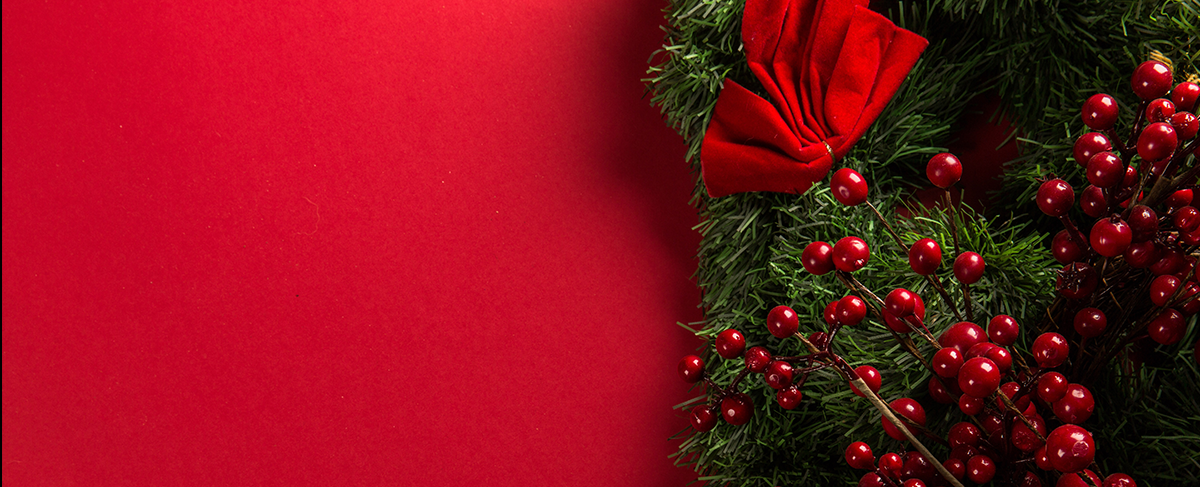
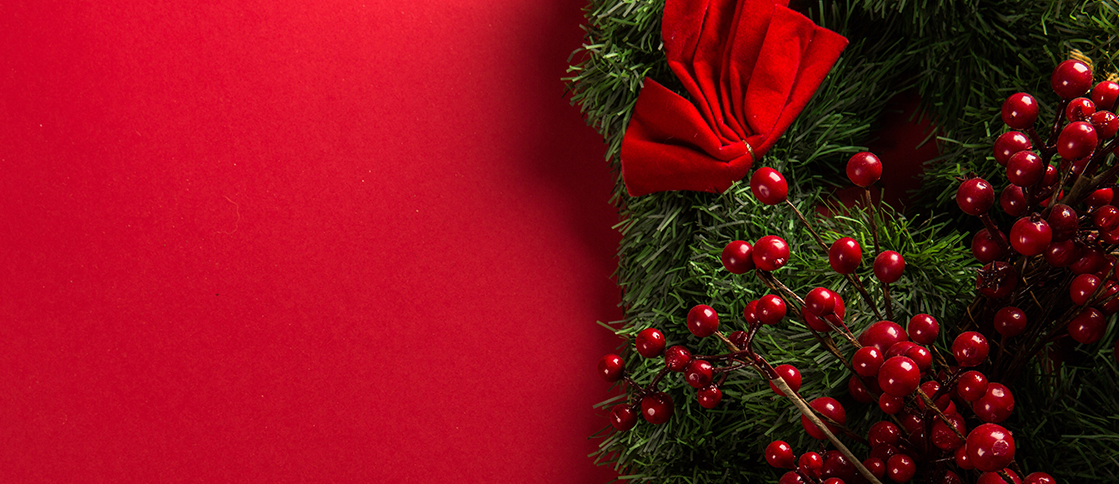
Background to deploy

diff --git a/src/views/style.scss b/src/views/style.scss
@@ -38,13 +38,15 @@
   padding-top: 0;
   background-image: url('/images/background.png');
   background-repeat: no-repeat;
-  background-size: cover;
+  background-size: auto 100vh;
   background-attachment: fixed;
+
   -webkit-animation: fadein 5s; /* Safari, Chrome and Opera > 12.1 */
   -moz-animation: fadein 5s; /* Firefox < 16 */
   -ms-animation: fadein 5s; /* Internet Explorer */
   -o-animation: fadein 5s; /* Opera < 12.1 */
   animation: fadein 5s;
+
   @media (max-width: $breakpoint-cellphone) {
     background-size: auto 100%;
     background-position: center 0;
